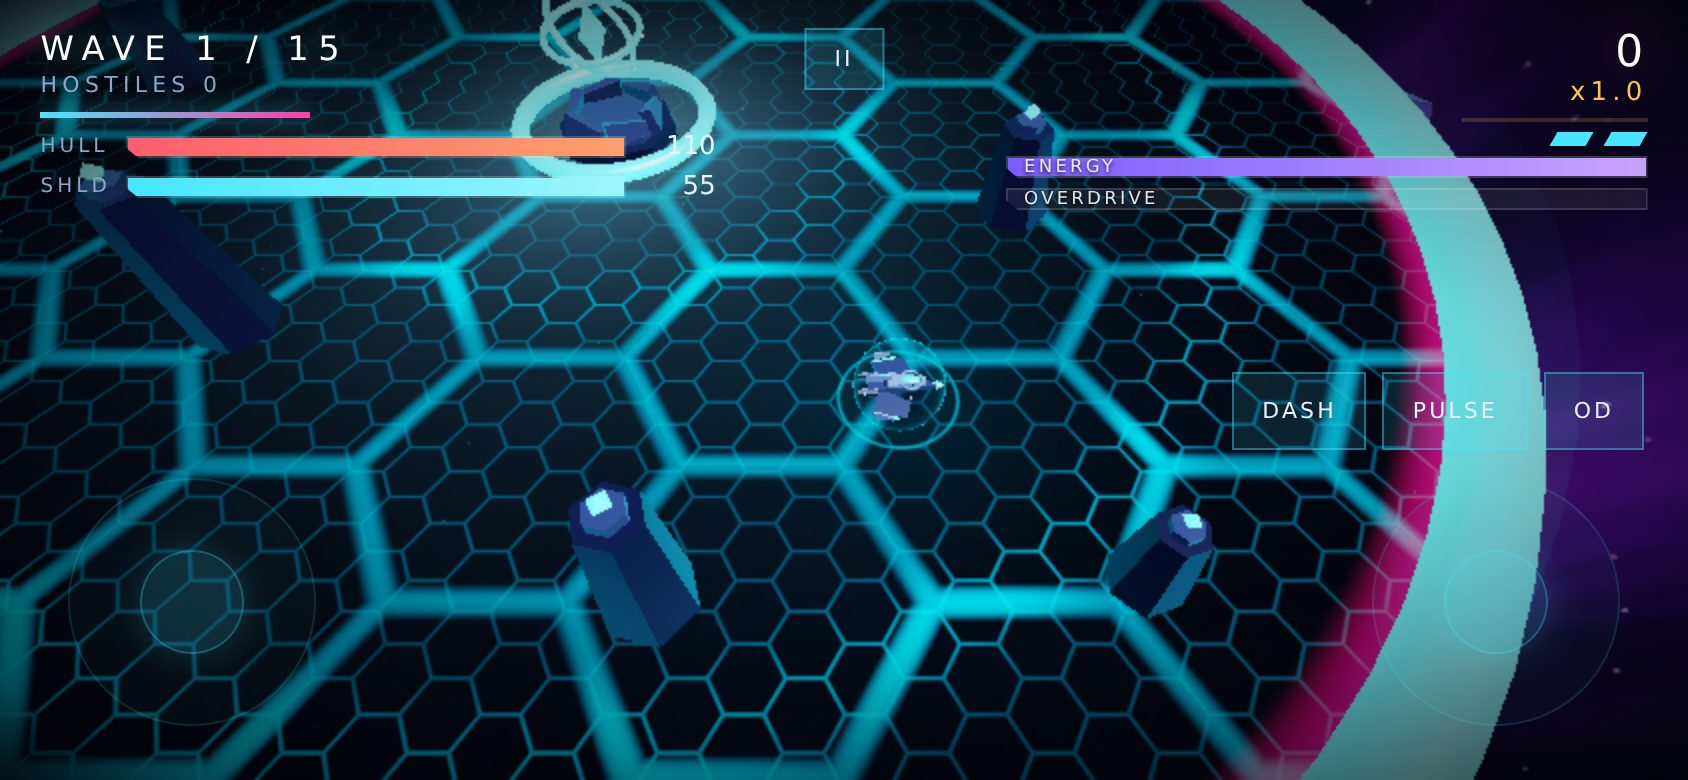
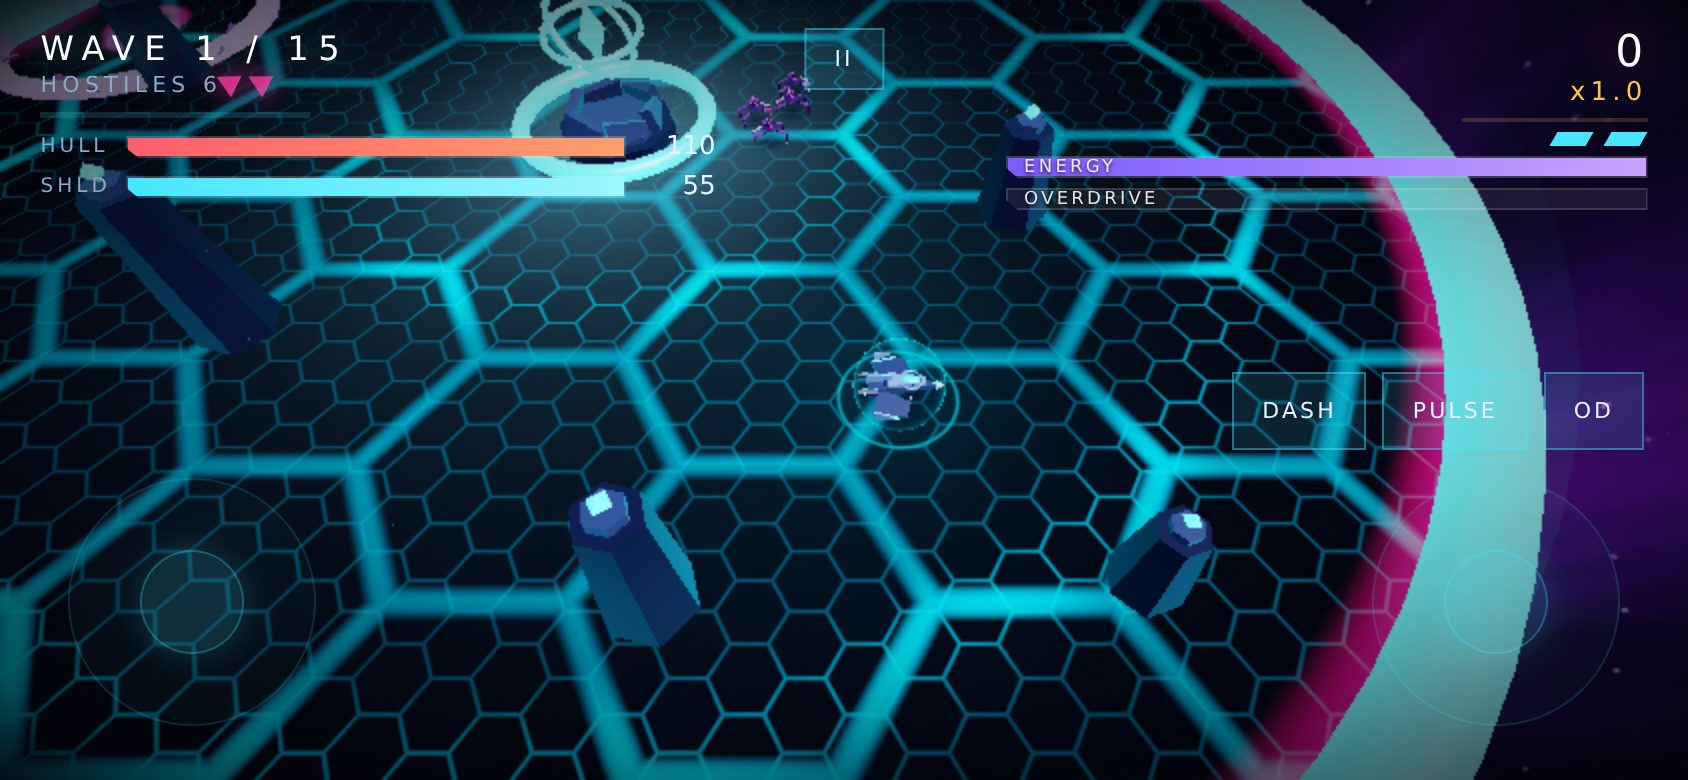
Add a publish gate that boots and plays every build
A bundle-only crash shipped once because the module build was green and the
single-file bundle was never launched before publishing. tools/verify-bundle.mjs
closes that gap: it builds, then boots the module build, the single-file build
and the host-wrapped artifact build, drives ten seconds of real input through
each, and fails on any console error. About twenty seconds, so there is no
excuse to skip it.

Running it immediately found a second defect: the debug skip hook cancelled a
cinematic without firing its completion callback, so the first wave never
started and the smoke test was quietly playing an empty arena. It now finishes
the sequence the way a player's skip does.

Claude-Session: https://claude.ai/code/session_019uXw9Jz1KVVPyaNoTW6duk

diff --git a/src/game.js b/src/game.js
@@ -1005,7 +1005,14 @@ export class Game {
       setInput: (o) => { g.input.override = o; },
       setCamera: (c) => { g.debugCamera = c; },
       freeze: (on = true) => { g.debugFreeze = !!on; },
-      skipCinematic: () => { g.director.cancel(); g.input.enabled = true; },
+      skipCinematic: () => {
+        // finish the sequence rather than abandoning it, so whatever it was
+        // going to start (the first wave) still starts
+        const cb = g.director.onComplete;
+        g.director.cancel();
+        if (cb) cb();
+        g.input.enabled = true;
+      },
       clearInput: () => { g.input.override = null; },
       errors: [],
     };

diff --git a/dist/nova-lance.artifact.html b/dist/nova-lance.artifact.html
@@ -11698,7 +11698,14 @@ class Game {
       setInput: (o) => { g.input.override = o; },
       setCamera: (c) => { g.debugCamera = c; },
       freeze: (on = true) => { g.debugFreeze = !!on; },
-      skipCinematic: () => { g.director.cancel(); g.input.enabled = true; },
+      skipCinematic: () => {
+        // finish the sequence rather than abandoning it, so whatever it was
+        // going to start (the first wave) still starts
+        const cb = g.director.onComplete;
+        g.director.cancel();
+        if (cb) cb();
+        g.input.enabled = true;
+      },
       clearInput: () => { g.input.override = null; },
       errors: [],
     };

diff --git a/dist/nova-lance.html b/dist/nova-lance.html
@@ -11708,7 +11708,14 @@ class Game {
       setInput: (o) => { g.input.override = o; },
       setCamera: (c) => { g.debugCamera = c; },
       freeze: (on = true) => { g.debugFreeze = !!on; },
-      skipCinematic: () => { g.director.cancel(); g.input.enabled = true; },
+      skipCinematic: () => {
+        // finish the sequence rather than abandoning it, so whatever it was
+        // going to start (the first wave) still starts
+        const cb = g.director.onComplete;
+        g.director.cancel();
+        if (cb) cb();
+        g.input.enabled = true;
+      },
       clearInput: () => { g.input.override = null; },
       errors: [],
     };

diff --git a/README.md b/README.md
@@ -28,6 +28,7 @@ npm test           # 81-check automated playtest in headless Chromium
 npm run test:artifact   # same suite against the host-wrapped build
 npm run test:endurance  # long soak + deep Endless run
 npm run balance         # scripted bot campaigns at every difficulty
+npm run verify          # build, then boot-and-play all three builds (~20s)
 ```
 
 ## Controls
@@ -153,6 +154,7 @@ tools/
   serve.js            zero-dep dev server
   build.js            zero-dep bundler -> dist/nova-lance.html
   playtest.mjs        automated QA suite (81 checks)
+  verify-bundle.mjs   fast boot-and-play gate for all three builds
   endurance.mjs       long soak + deep Endless run (leak/drift detection)
   balance.mjs         scripted bot campaigns for tuning
   audiomix.mjs        offline render of every effect: peak / RMS / duration
@@ -212,6 +214,11 @@ same input path a human uses:
 
 `node tools/balance.mjs` runs bot campaigns at every difficulty and prints
 wave-by-wave clear times, which is how the pacing above was tuned.
+
+`npm run verify` is the publish gate. The module build and the single-file
+bundle can diverge — the bundler strips imports, so anything import-shaped that
+survives into a name is a hazard — and a bundle-only crash has shipped once.
+It builds, then boots *and plays* all three builds in about twenty seconds.
 
 ## Known limitations
 
